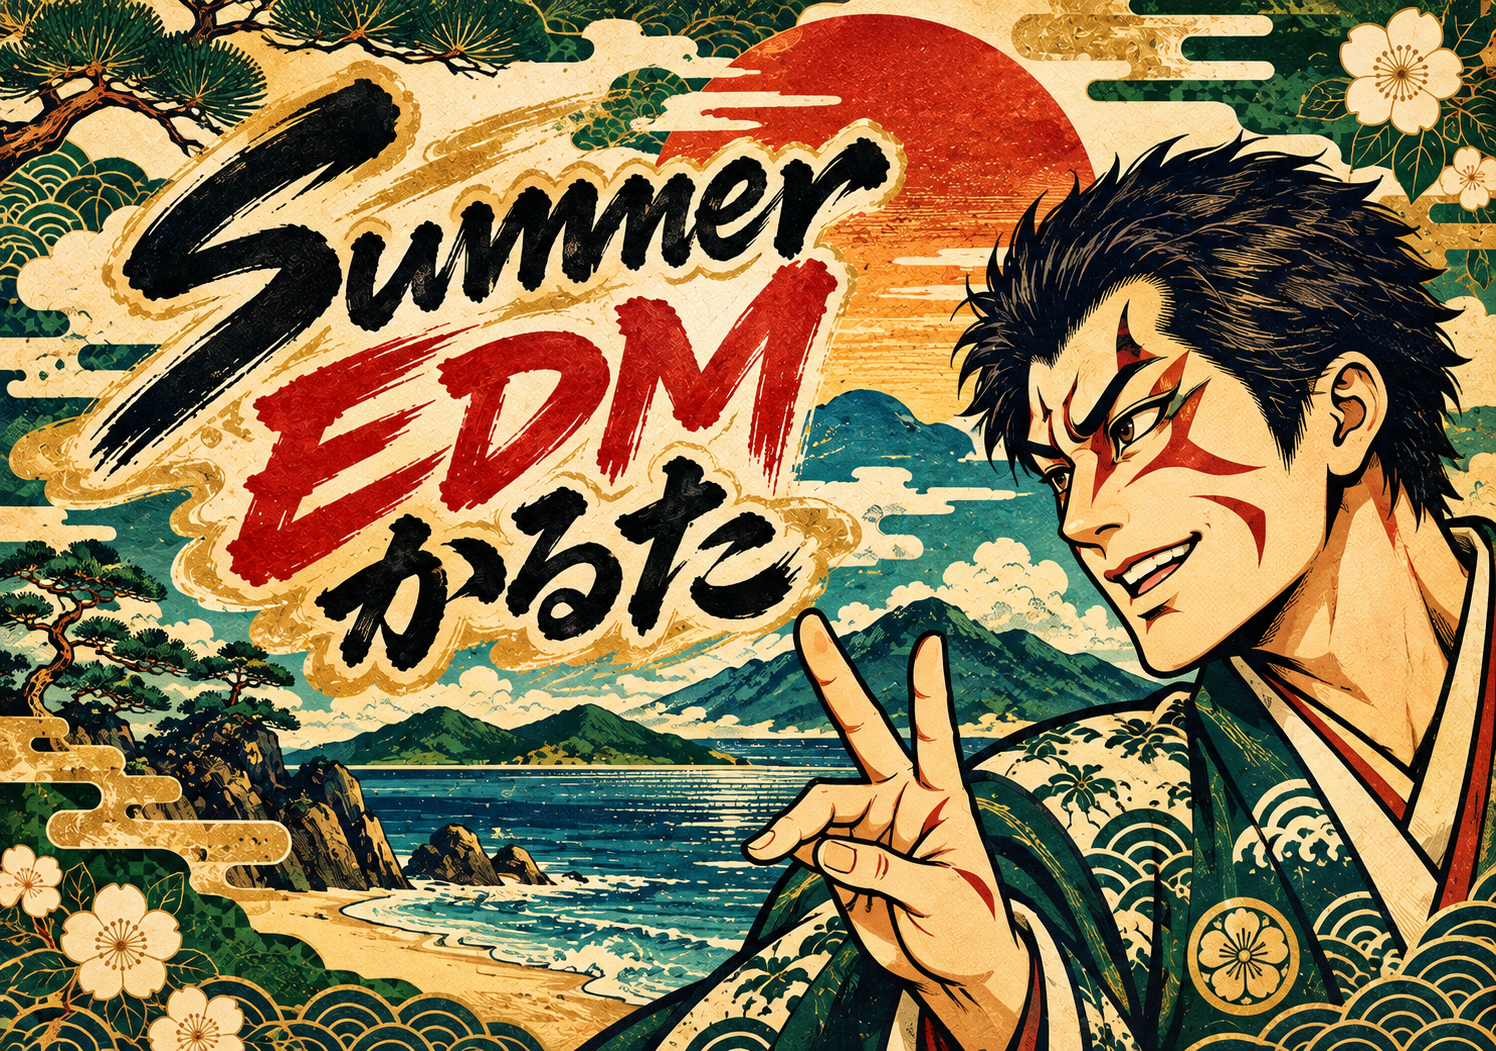
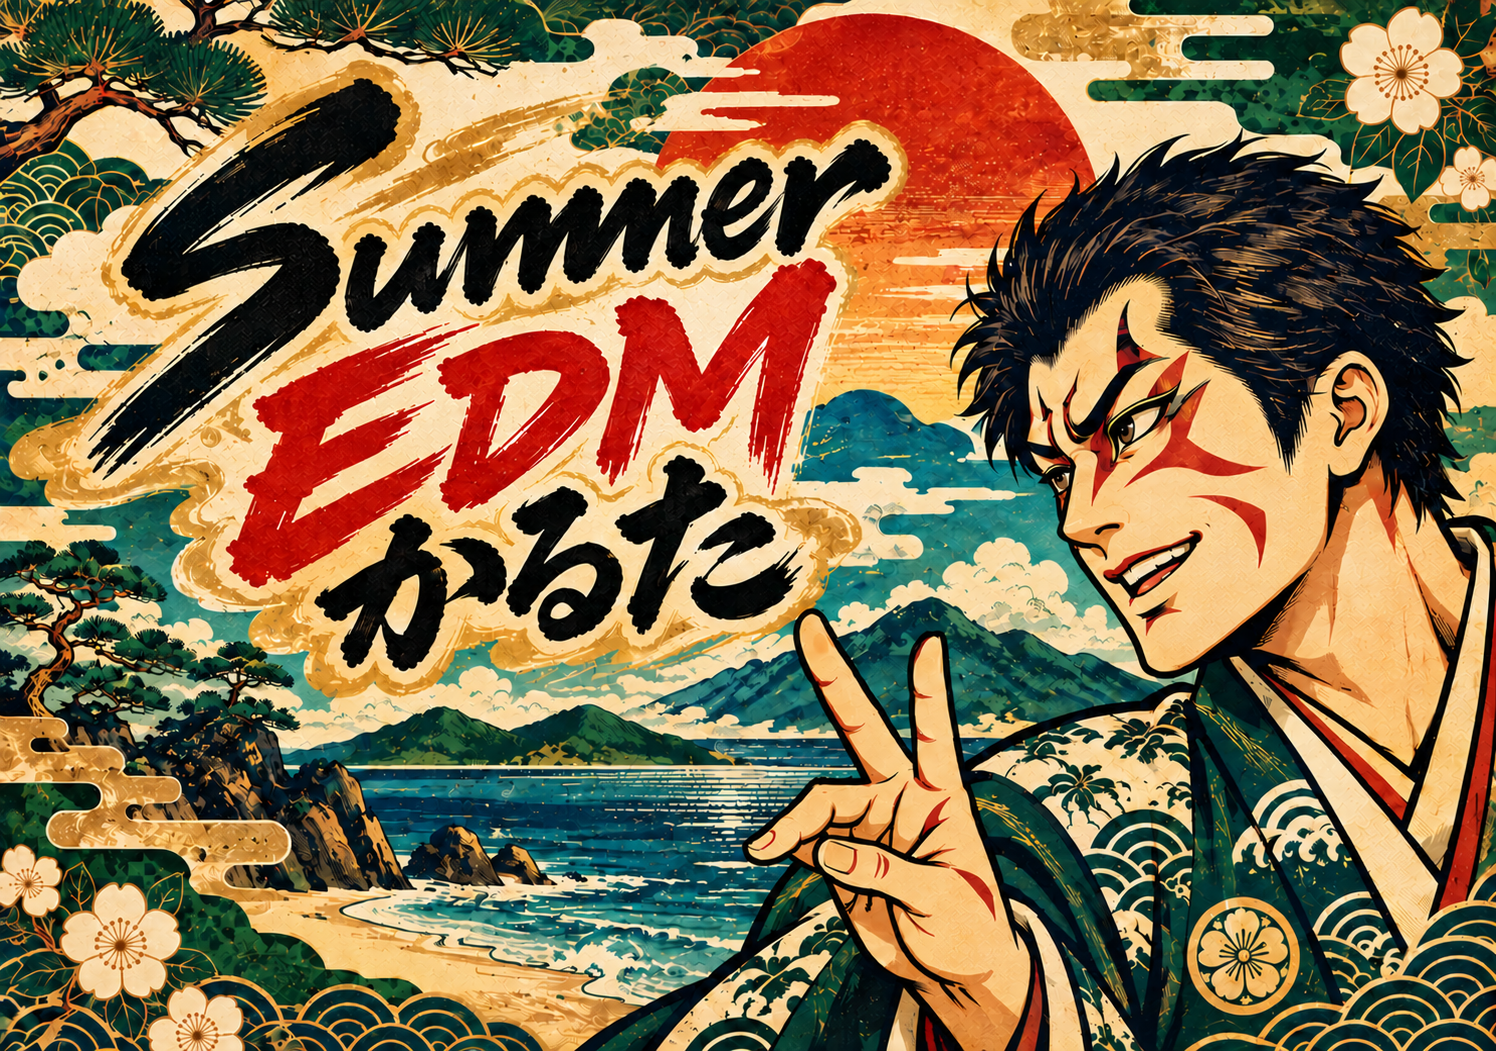
スタート画面を浮世絵風ポスターに変更

Changed region(s): [[0.0, 0.0, 1.0, 1.0], [0.8302, 0.5785, 0.8917, 0.7003], [0.861, 0.548, 0.8917, 0.5785]]

diff --git a/index.html b/index.html
@@ -8,7 +8,7 @@
   </head>
   <body>
     <main class="game-shell">
-      <section class="hero" aria-label="SEDMカルタ"><img src="assets/header.png" alt="Summer EDM かるた" /></section>
+      <section class="hero" aria-label="SEDMカルタ"><img src="assets/header.png?v=20261022" alt="浮世絵風 Summer EDM かるた" /></section>
 
       <section id="setup-screen" class="setup-screen" aria-labelledby="setup-title">
         <p class="eyebrow">Game Setup</p>
@@ -85,8 +85,7 @@
         <div id="room-entry">
           <label id="player-name-label" class="room-label">表示名<input id="player-name" maxlength="12" value="プレイヤー" /></label>
           <button id="create-room-button" class="primary-button" type="button">ルームを作る</button>
-          <p id="room-entry-divider">または</p>
-          <label class="room-label">ルームコード<input id="room-code-input" maxlength="6" placeholder="例：AB12CD" /></label>
+          <label id="room-code-label" class="room-label">ルームコード<input id="room-code-input" maxlength="6" placeholder="例：AB12CD" /></label>
           <button id="join-room-button" class="secondary-button" type="button">ルームに参加</button>
         </div>
         <div id="room-waiting" hidden>
@@ -99,6 +98,6 @@
       </div>
     </dialog>
     <audio id="reader" preload="auto"></audio>
-    <script type="module" src="script.js?v=20261021-match2"></script>
+    <script type="module" src="script.js?v=20261022-lobby"></script>
   </body>
 </html>
